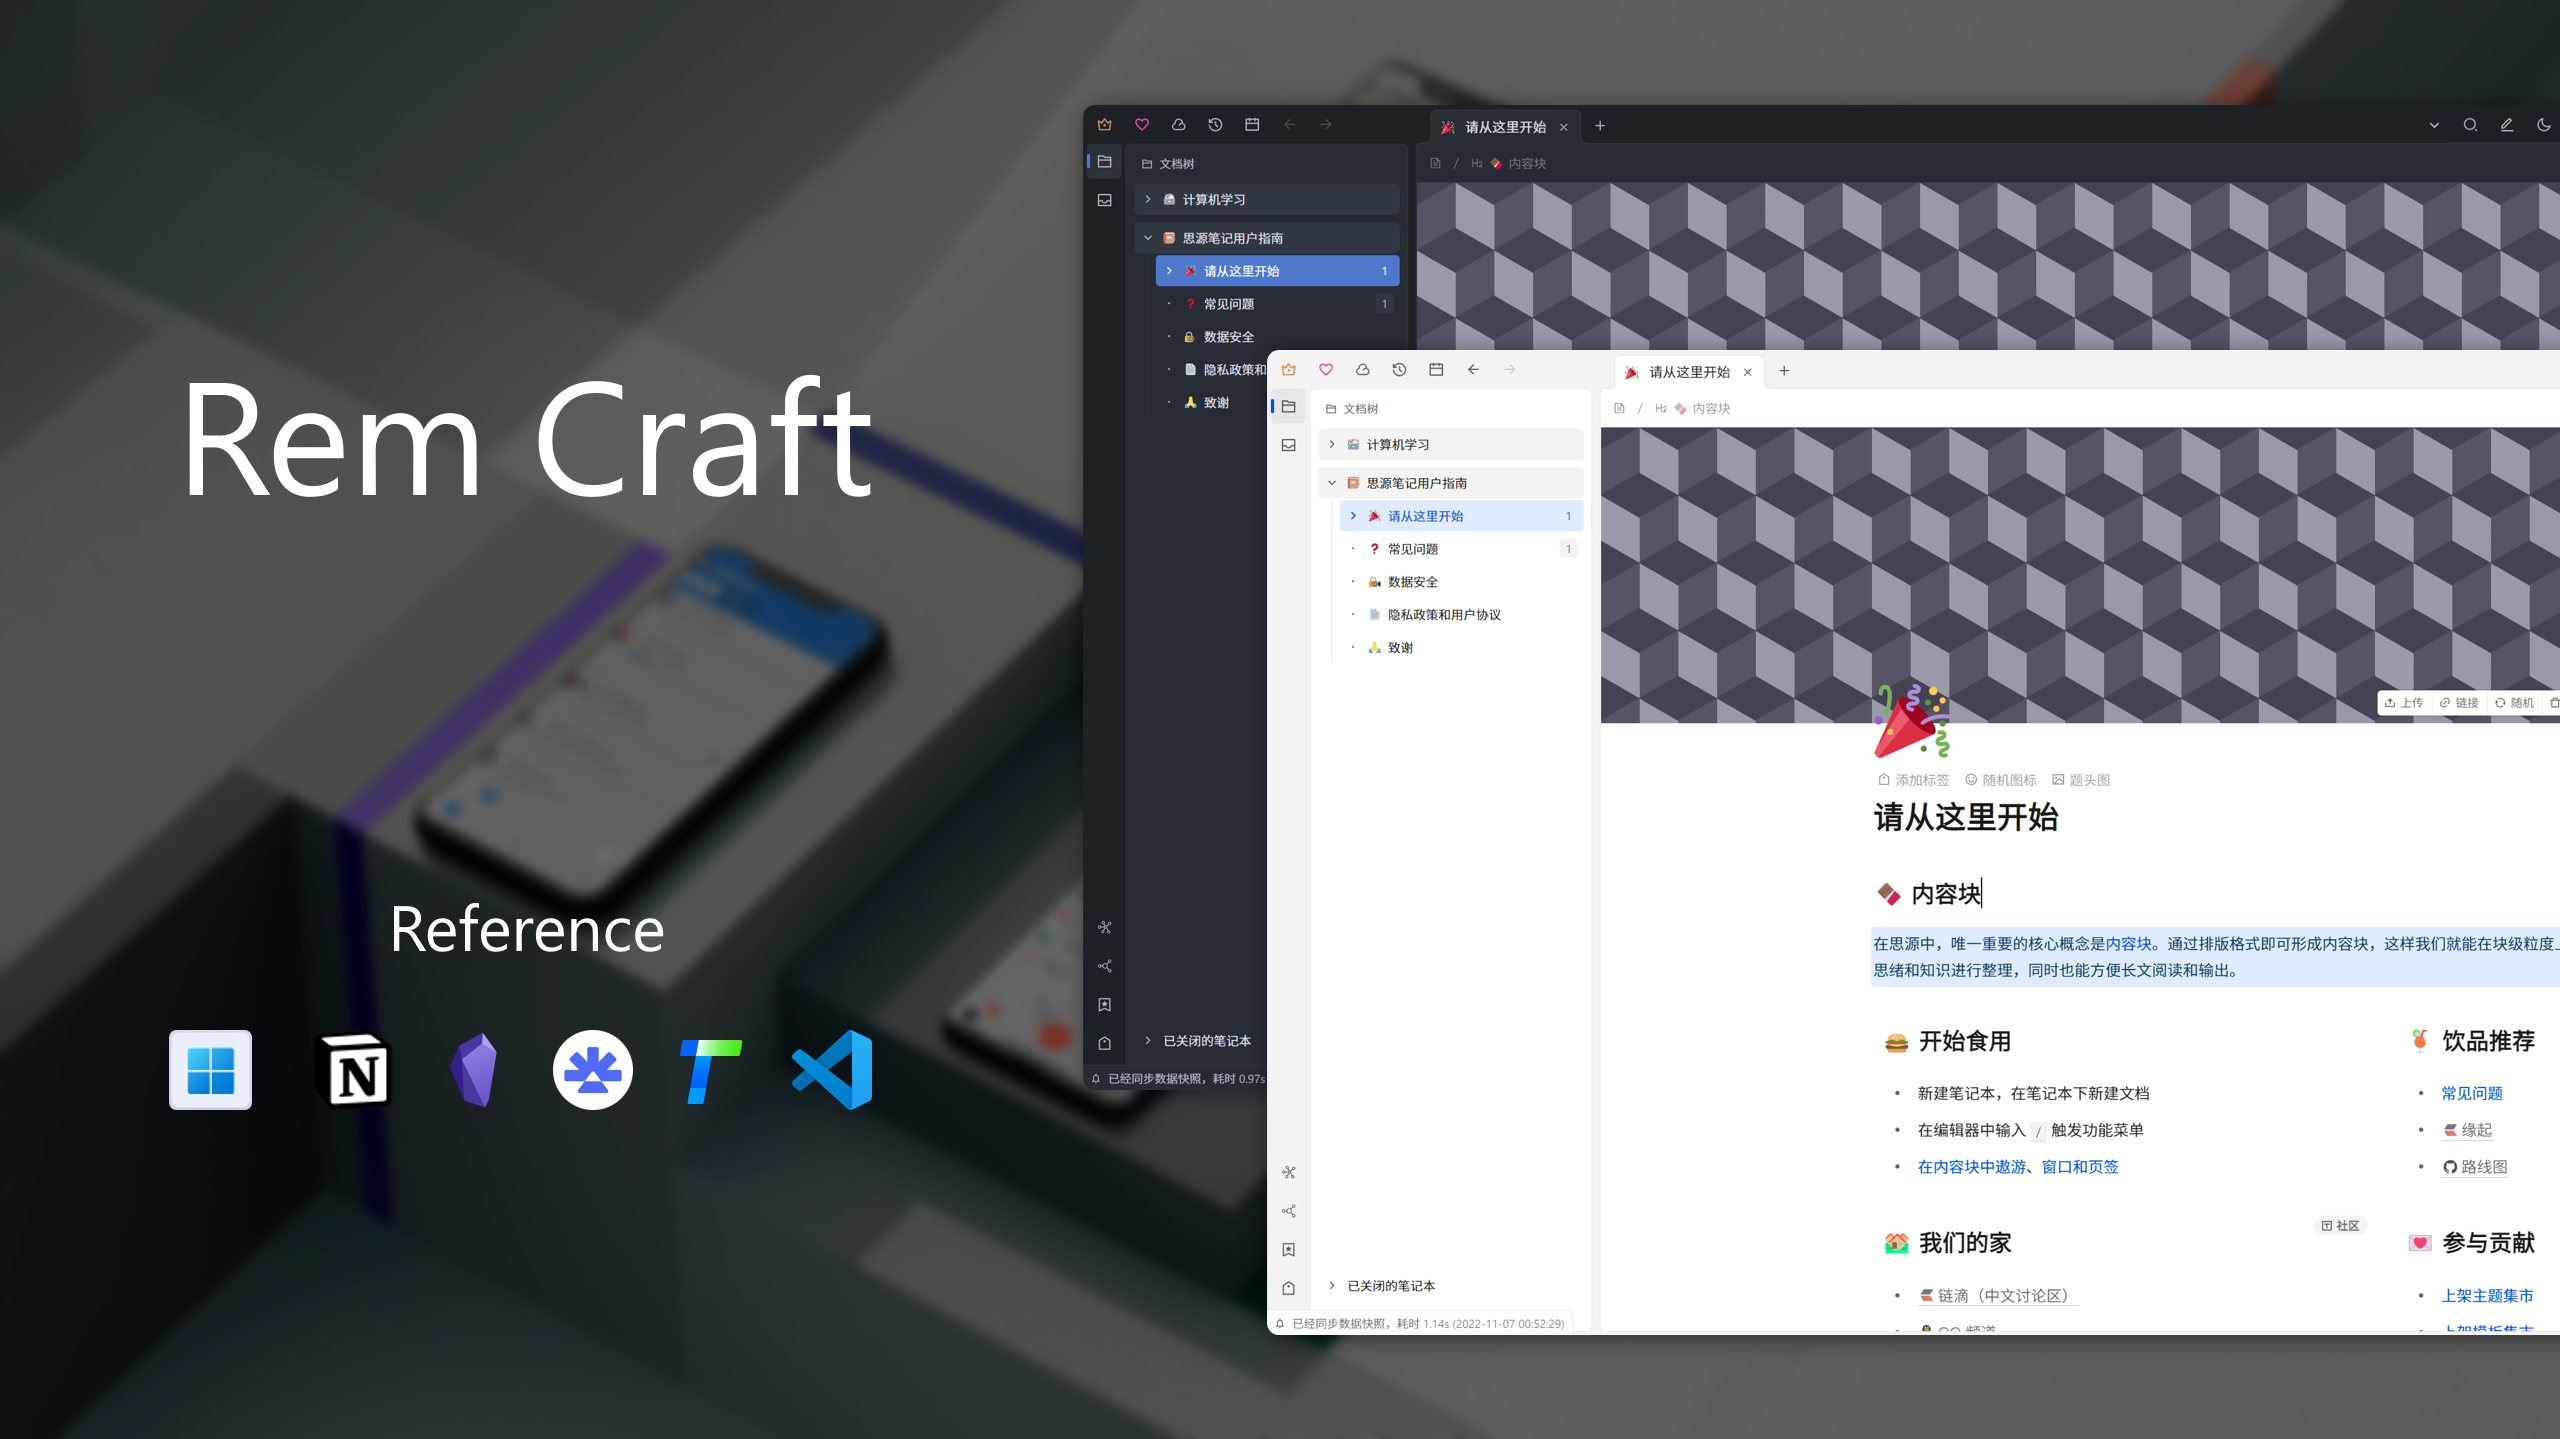
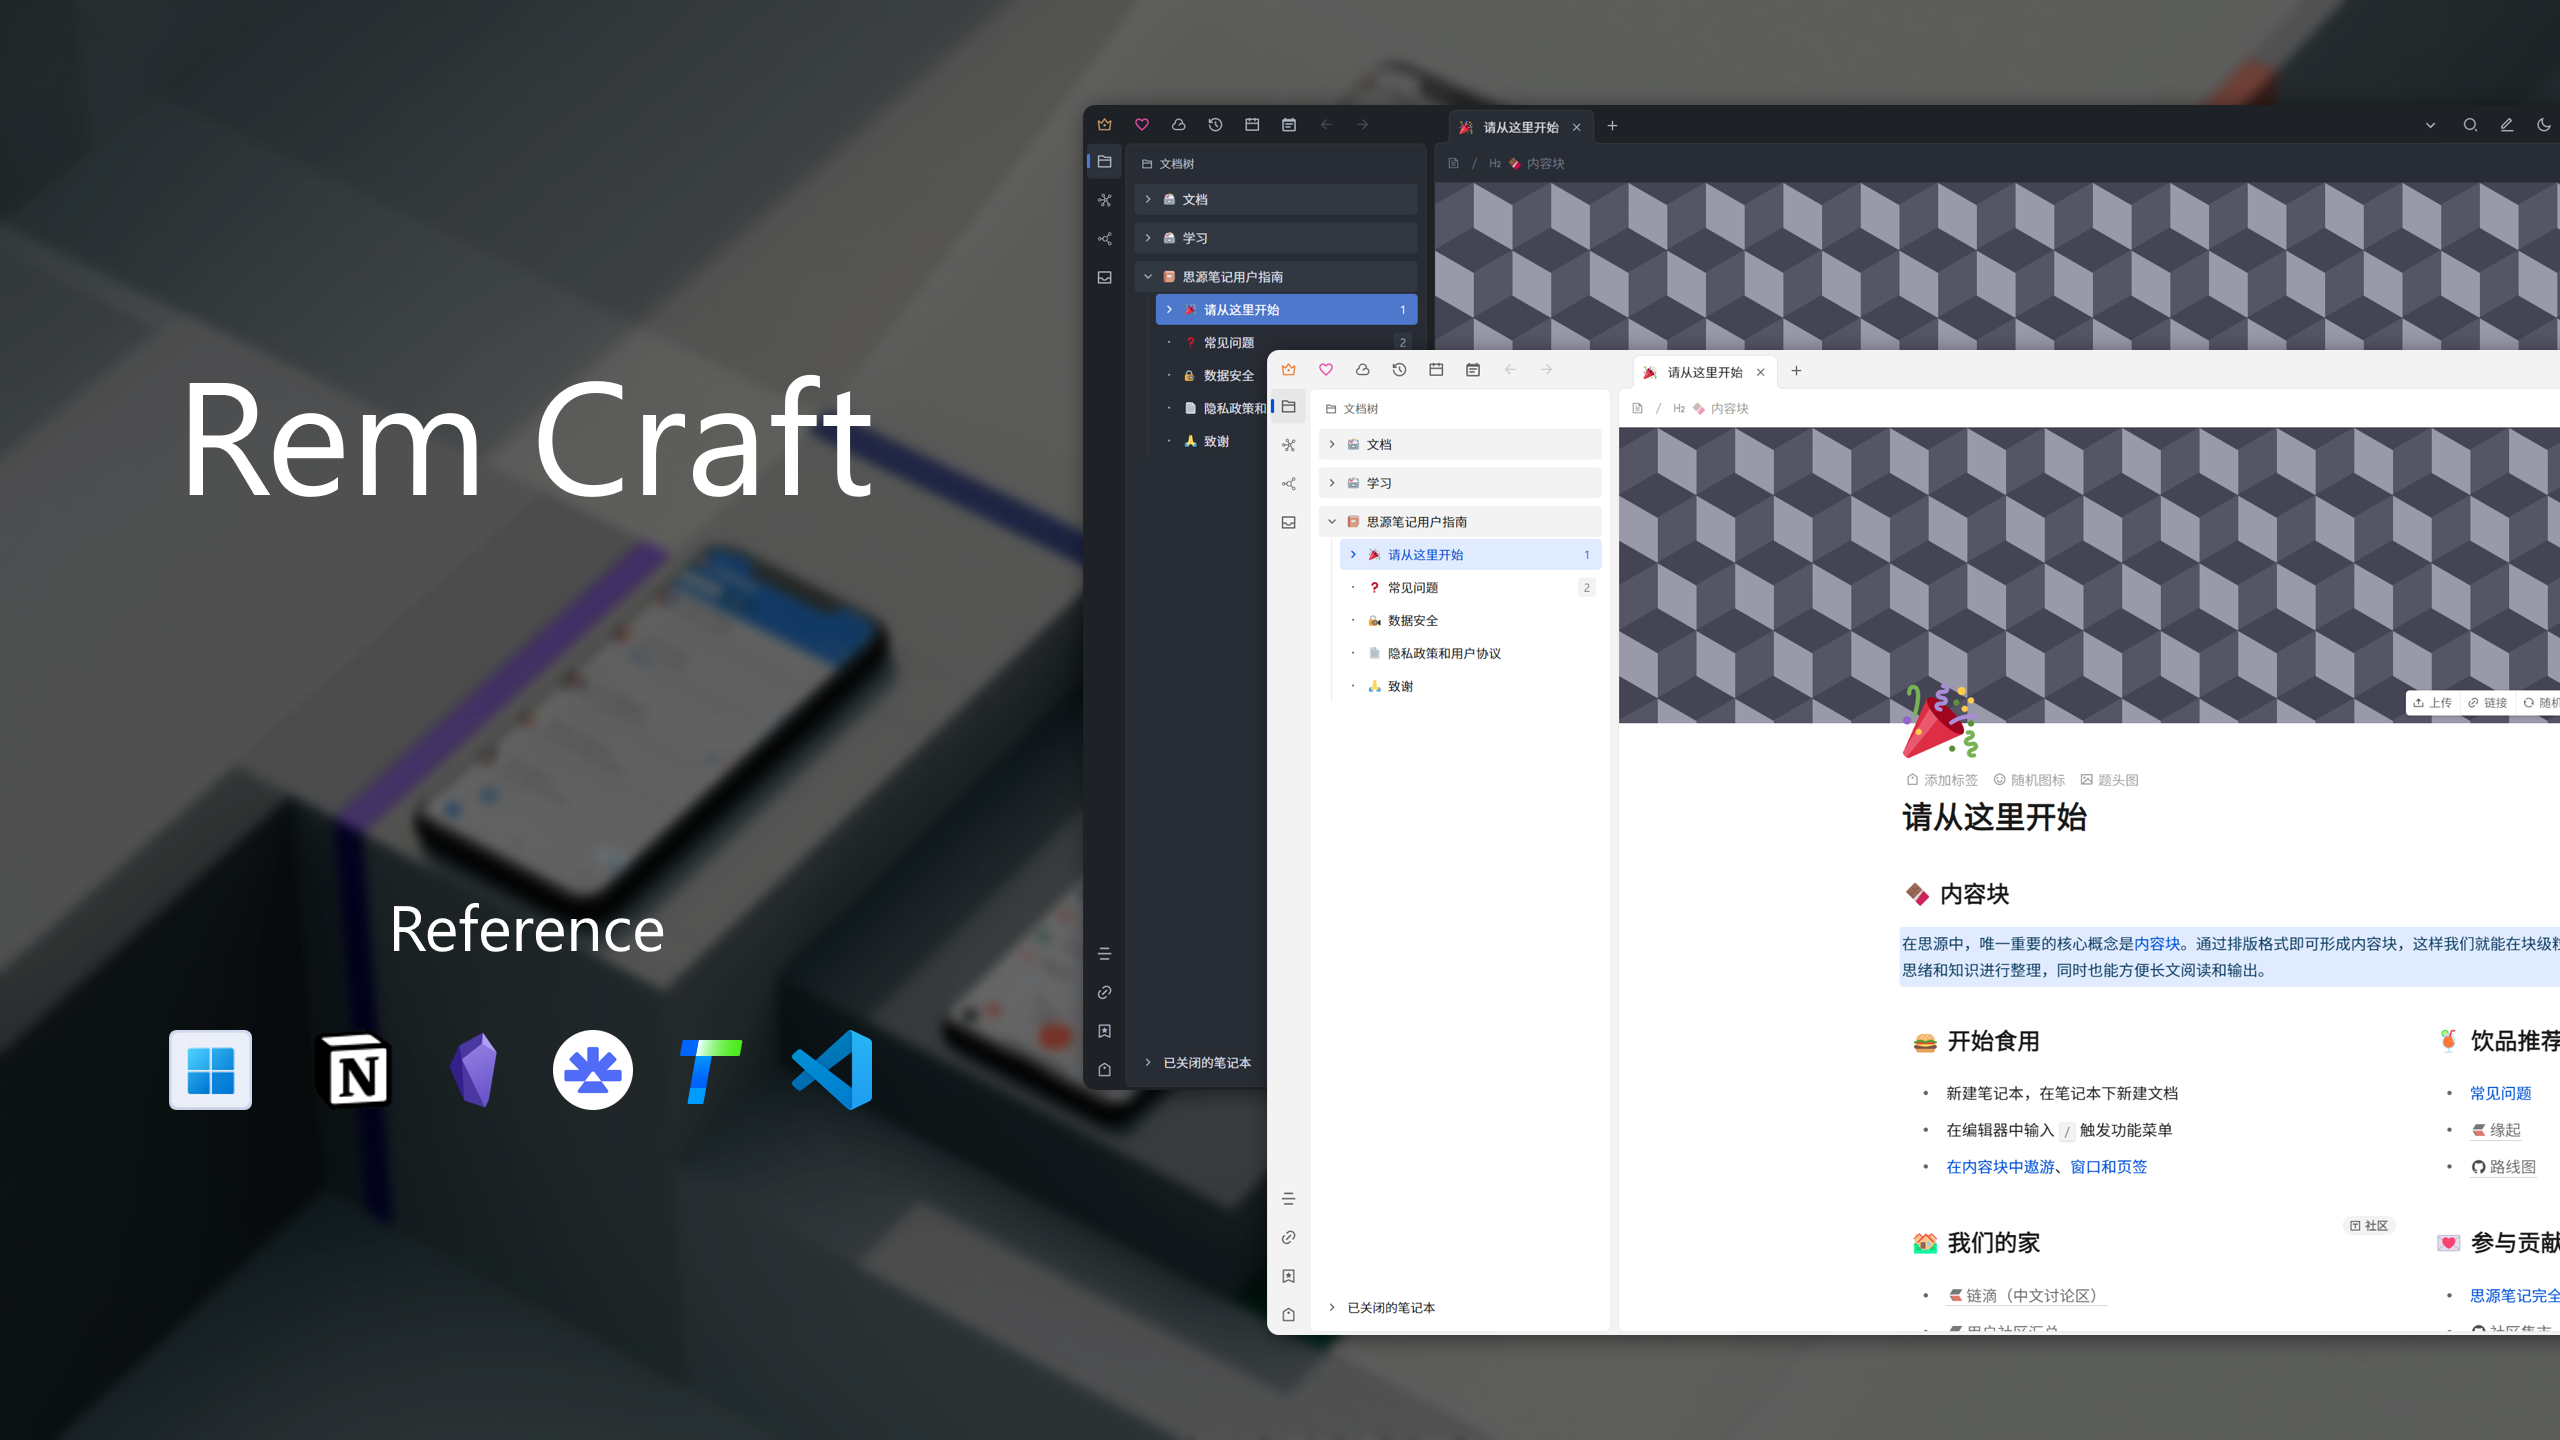
docs: :memo: 更新Readme和preview.png

diff --git a/plugin/status/main.css b/plugin/status/main.css
@@ -1,1 +1,1 @@
-#status{position:fixed;padding:0;background-color:rgba(0,0,0,0);right:56px;bottom:12px;height:36px;transition:width .2s cubic-bezier(0.645, 0.045, 0.355, 1);border:none}#status .toolbar__item{background-color:rgba(var(--page-1));transition:all .2s cubic-bezier(0.645, 0.045, 0.355, 1);width:36px;height:36px;margin:0;padding:10px 10px;border-radius:100%;box-shadow:var(--shadow-1)}#status .toolbar__item:hover{background-color:rgba(var(--page-2))}#status .toolbar__item:active{background-color:rgba(var(--page-3))}#status .toolbar__item>svg{margin:0;width:16px;height:16px;padding:0px 0px;display:block}#status .toolbar__item .b3-menu{bottom:36px !important;left:unset !important;right:44px;z-index:0}#status .toolbar__item::after{display:none}#status #barHelp .b3-menu{bottom:64px !important;right:8px !important}#status #barHelp .b3-menu .b3-menu{bottom:64px !important;right:196px !important}#status #barDock{display:none}#status .status__msg{position:unset;padding:0}#status .status__msg:not(:empty){height:28px;line-height:28px;vertical-align:middle;border:none;padding:0 8px;background-color:rgba(var(--page-1));border-radius:4px;box-shadow:var(--shadow-1);margin:4px 8px 0 0;display:inline-block;max-width:120px;transition:max-width .2s cubic-bezier(0.645, 0.045, 0.355, 1)}#status .status__msg:not(:empty)::before{content:"🛈";display:inline-flex;margin:0 4px 0 0;background-color:rgba(0,0,0,0);-webkit-mask:none;mask:none}#status .status__msg:not(:empty):hover{max-width:1000px}#status>.fn__flex-1{display:none}#status .status__counter:not(:empty){height:28px;line-height:28px;vertical-align:middle;border:none;padding:0 8px;background-color:rgba(var(--page-1));border-radius:4px;box-shadow:var(--shadow-1);margin:4px 8px 0 0;padding-right:3px}.dock--vertical div:last-child:not(:empty){margin-bottom:4px !important}#layouts>.fn__flex>.fn__flex-column:not(.layout__center)>.fn__flex:has(+.layout__resize.fn__none)>[data-type=wnd],#layouts>.fn__flex>.fn__flex-column:not(.layout__center)>.fn__flex:last-child>[data-type=wnd]{padding-bottom:0 !important}
+#status{position:fixed;padding:0;background-color:rgba(0,0,0,0);right:56px;bottom:12px;height:36px;transition:width .2s cubic-bezier(0.645, 0.045, 0.355, 1);border:none}#status .toolbar__item{background-color:rgba(var(--pop-1));transition:all .2s cubic-bezier(0.645, 0.045, 0.355, 1);width:36px;height:36px;margin:0;padding:10px 10px;border-radius:100%;box-shadow:var(--shadow-1)}#status .toolbar__item:hover{background-color:rgba(var(--pop-2))}#status .toolbar__item:active{background-color:rgba(var(--pop-3))}#status .toolbar__item>svg{margin:0;width:16px;height:16px;padding:0px 0px;display:block}#status .toolbar__item .b3-menu{bottom:36px !important;left:unset !important;right:44px;z-index:0}#status .toolbar__item::after{display:none}#status #barHelp .b3-menu{bottom:64px !important;right:8px !important}#status #barHelp .b3-menu .dock-menu{bottom:64px !important;right:196px !important}#status #barDock{display:none}#status .status__msg{position:unset;padding:0}#status .status__msg:not(:empty){height:28px;line-height:28px;vertical-align:middle;border:none;padding:0 8px;background-color:rgba(var(--pop-1));border-radius:4px;box-shadow:var(--shadow-1);margin:4px 8px 0 0;display:inline-block;max-width:120px;transition:max-width .2s cubic-bezier(0.645, 0.045, 0.355, 1)}#status .status__msg:not(:empty)::before{content:"🛈";display:inline-flex;margin:0 4px 0 0;background-color:rgba(0,0,0,0);-webkit-mask:none;mask:none}#status .status__msg:not(:empty):hover{max-width:1000px}#status>.fn__flex-1{display:none}#status .status__counter:not(:empty){height:28px;line-height:28px;vertical-align:middle;border:none;padding:0 8px;background-color:rgba(var(--pop-1));border-radius:4px;box-shadow:var(--shadow-1);margin:4px 8px 0 0;padding-right:3px}.dock--vertical div:last-child:not(:empty){margin-bottom:4px !important}#layouts>.fn__flex>.fn__flex-column:not(.layout__center)>.fn__flex:has(+.layout__resize.fn__none)>[data-type=wnd],#layouts>.fn__flex>.fn__flex-column:not(.layout__center)>.fn__flex:last-child>[data-type=wnd]{padding-bottom:0 !important}

diff --git a/script/status-menu.js b/script/status-menu.js
@@ -2,25 +2,25 @@ import { config } from "./config.js";
 
 function stayMenu(elementId) {
   let btn = document.getElementById(elementId);
-  let menu = btn.querySelector(".b3-menu");
-  btn.addEventListener("mouseenter", () => {
-    let anotherMenu = document.querySelector(
-      `#status > .toolbar__item:not(#${elementId}) > .b3-menu`
-    );
-    console.log(elementId);
-    anotherMenu.classList.add("fn__none");
-  });
+  let menu = document.querySelector(`#${elementId} >.b3-menu`);
   btn.addEventListener("mouseleave", () => {
     menu.classList.remove("fn__none");
   });
   document.addEventListener("mouseup", () => {
     menu.classList.add("fn__none");
   });
+
+  if (!config.plugin.status) {
+    btn.addEventListener("mouseenter", () => {
+      let anotherMenu = document.querySelector(
+        `#status > .toolbar__item:not(#${elementId}) > .b3-menu`
+      );
+      anotherMenu.classList.add("fn__none");
+    });
+  }
 }
 
 export function statusMenuMain() {
   stayMenu("barHelp");
-  if (!config.plugin.status) {
-    stayMenu("barDock");
-  }
+  stayMenu("barDock");
 }

diff --git a/plugin/status/main.scss b/plugin/status/main.scss
@@ -14,7 +14,7 @@ $msg-icon-w: 14px;
   @include v-center($item-h);
   border: none;
   padding: 0 $fn-space;
-  background-color: get($bg, "page", 1);
+  background-color: get($bg, "pop", 1);
   border-radius: get($radius, "base");
   box-shadow: get($shadow, 1);
   margin: math.div($s-h - $item-h, 2) $fn-space 0 0;
@@ -33,7 +33,7 @@ $msg-icon-w: 14px;
 
   // 右下角按钮
   .toolbar__item {
-    @include item("page");
+    @include item("pop");
     @include svg-div($s-h, $icon-w);
 
     border-radius: get($radius, "circle");
@@ -55,7 +55,7 @@ $msg-icon-w: 14px;
     bottom: $s-h + $btn-interval + $fn-space * 2 !important;
     right: $fn-space !important;
 
-    .b3-menu {
+    .dock-menu {
       bottom: $s-h + $btn-interval + $fn-space * 2 !important;
       right: 180px + $fn-space * 2 !important;
     }

diff --git a/plugin/status/main.js b/plugin/status/main.js
@@ -56,8 +56,7 @@ function addDockMenu() {
   let menuBtn = addButton("wndBtn", "iconLeft", "打开选中边窗");
   let dockBtn = document.getElementById("barDock");
   let menu = dockBtn.querySelector(".b3-menu");
-  // menu.classList.add("b3-menu__submenu");
-  // menu.classList.remove("b3-menu");
+  menu.classList.add("dock-menu");
   menuBtn.appendChild(menu);
 
   menuBtn.addEventListener("mouseover", () => {

diff --git a/script/index.js b/script/index.js
@@ -5,5 +5,5 @@ import { statusMenuMain } from "./status-menu.js";
 export function moduleMain() {
   changeMode(); // 明暗切换
   autoSetBorders(); // 窗口向下还原时增加边框
-  statusMenuMain()
+  statusMenuMain(); // 鼠标离开按钮时不关闭菜单
 }

diff --git a/README.md b/README.md
@@ -8,14 +8,16 @@
 
 一款现代化、平面化设计的思源笔记主题
 
-<img width="1280" alt="preview" src="https://user-images.githubusercontent.com/61345763/200185990-01df147a-b54d-4ae2-a68d-f5739adfd64b.png">
+<img width="1280" alt="preview" src="https://user-images.githubusercontent.com/61345763/203089325-75a4d1c7-9b59-43a1-b98d-9c1bb0dcd63e.png">
 
 ## 使用说明
 
-1. 顶栏除了按钮以外的区域都可以拖拽窗口
-2. 打开边栏时，顶部页签栏有可能遮盖顶栏按钮，拖拽分割线即可解决
-3. 多次分屏后，页签栏有概率出现现实问题，重置外观即可解决
-4. 设置、搜索等大弹窗的关闭按钮被隐藏了，点击周围空白处即可关闭
+1. 建议每次更新主题后，注意查看使用说明是否更新
+2. 顶栏除了按钮以外的区域都可以拖拽窗口
+3. 多次分屏后，页签栏有概率出现显示问题，重启软件即可解决
+4. 鼠标悬浮右下角问号按钮，菜单会持续显示，点击周围空白处即可关闭
+5. `script/config.js` 可以设置主题特殊功能的启用与否，默认启用，将值修改为 `false` 并重启软件即可关闭
+6. 设置、搜索等大弹窗的关闭按钮被隐藏了，点击周围空白处即可关闭
 
 ## 参考样式
 
@@ -31,7 +33,7 @@
 
 - Notion 的题头图、编辑器各类块
 
-- Obsidian 的顶栏、页签栏和底部状态栏
+- Obsidian 的顶栏、页签栏
 
 - Rem Note 的文档树
 
@@ -43,8 +45,8 @@
 
 ### 短期计划
 
-1. mini-plugins：用户自定义使用 css 片段，完善 css 片段版本、作者及功能描述等信息，方便后期维护。
-2. themes：用户自定义主题风格和主题色，主题自带 tdesign、semi-design 及 one-dark 三种风格。
+1. mini-plugins：用户自定义使用主题特殊功能，完善主题特殊功能的版本、作者及功能描述等信息，方便后期维护。
+2. themes：用户自定义主题风格和主题色，主题自带 tdesign 和 one-dark 两种风格。
 3. Admonitions：也叫 call-out，即各类定义好的引述模板。[（参考链接）](https://squidfunk.github.io/mkdocs-material/reference/admonitions/)
 
 ### 长期计划
@@ -60,8 +62,10 @@
 | 明暗切换             | [Zuoqiu-Yingyi](https://github.com/Zuoqiu-Yingyi/)                                         | [Dark+](https://github.com/Zuoqiu-Yingyi/siyuan-theme-dark-plus)                                                                            | 参考部分 theme.js   |
 | 斜杠快捷菜单分列显示       | [Zuoqiu-Yingyi](https://github.com/Zuoqiu-Yingyi/)、[royc01](https://github.com/royc01)     | [Dark+](https://github.com/Zuoqiu-Yingyi/siyuan-theme-dark-plus)、[notion-theme](https://github.com/royc01/notion-theme)                     | 将两个主题的相同功能整合在一起 |
 | 文档树辅助线           | [royc01](https://github.com/royc01)                                                        | [notion-theme](https://github.com/royc01/notion-theme)                                                                                      | 群聊中交流讨论提供思路     |
-| 顶部页签栏            | [royc01](https://github.com/royc01)                                                        | [notion-theme](https://github.com/royc01/notion-theme)                                                                                      | 顶栏提供思路          |
+| 顶部页签栏            | [royc01](https://github.com/royc01)                                                        | [notion-theme](https://github.com/royc01/notion-theme)                                                                                      | 提供顶栏下沉的思路       |
 | theme.js 写法和 api | [leolee9086](https://github.com/leolee9086)                                                | [noob](https://github.com/leolee9086/noob)                                                                                                  | 参考部分 theme.js   |
+| 日历面板             | [BryceAndJuly](https://ld246.com/member/BryceAndJuly)                                      | [论坛帖子](https://ld246.com/article/1662969146166)                                                                                             | 整合社区实现          |
+| 行内评论             | [langzhou](https://github.com/langzhou)、[Zuoqiu-Yingyi](https://github.com/Zuoqiu-Yingyi/) | [siyuan-comment](https://github.com/langzhou/siyuan-note/tree/main/siyuan-comment)                                                          | 整合社区实现          |
 
 ## 依赖项目
 
